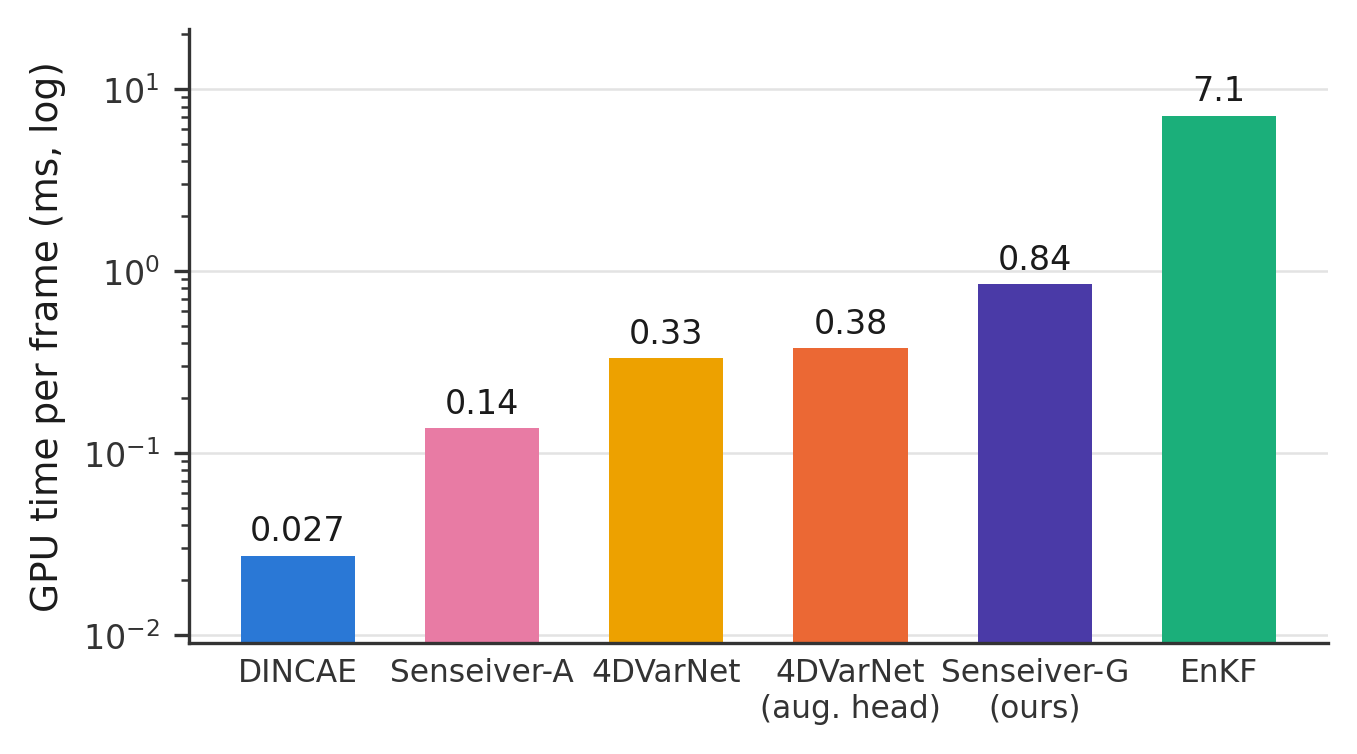
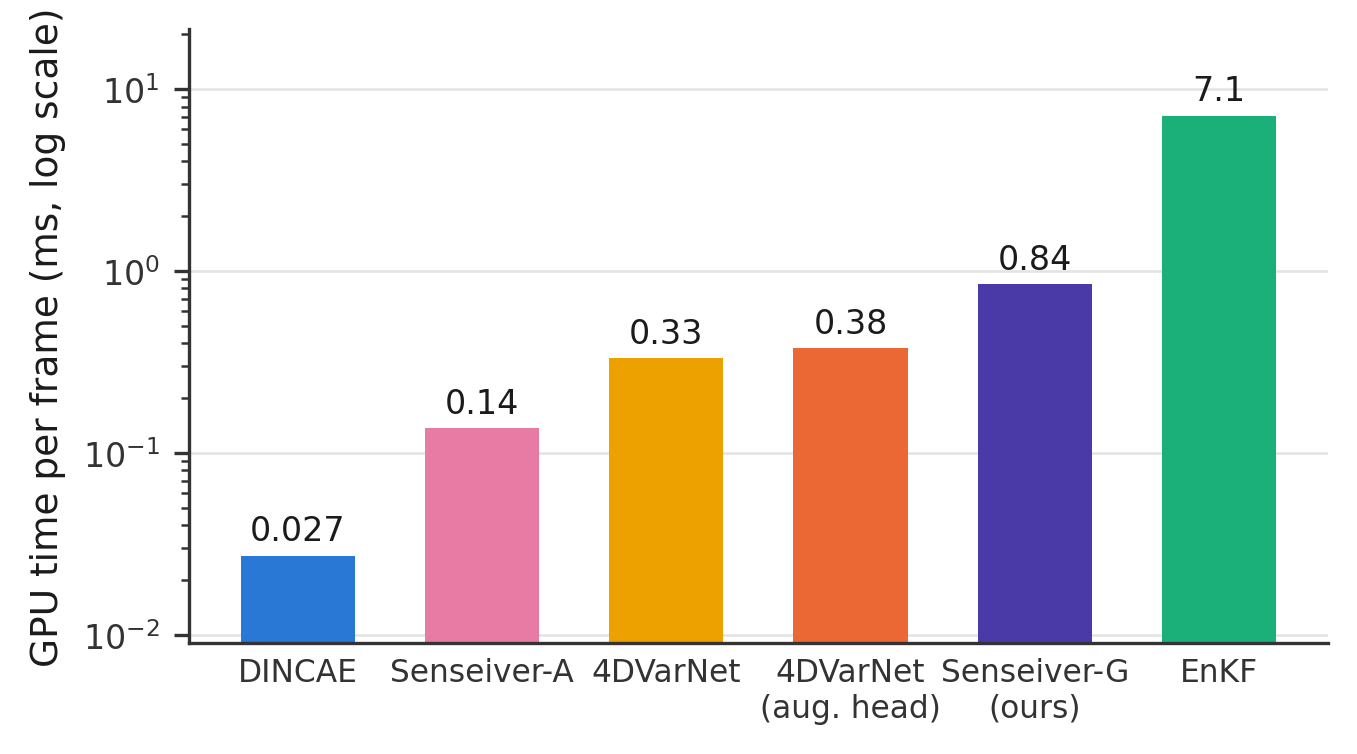
README: explain every metric, table and figure in plain terms for the reader
Each result section now says what question the metric answers, how to read the
number (units, direction, reference value), how to read the figure, and what it
shows. The 95% range is explained as a re-draw of the test days. Figure axes now
state the direction too (lower/higher is better, 1 = right size).

Changed region(s): [[0.0, 0.0305, 0.0619, 0.8846]]

diff --git a/supervisor_evaluation/evaluate.py b/supervisor_evaluation/evaluate.py
@@ -676,7 +676,7 @@ def plot_summary(output_dir: Path) -> None:
                    label=short.get(r["method"], r["method"]))
         ax.set_xticks(x, [t for _, t in cols])
         ax.tick_params(axis="x", length=0)
-        ax.set_ylabel("RMSE")
+        ax.set_ylabel("RMSE (lower is better)")
         fig.legend(loc="outside upper center", ncol=3, handlelength=1.2, columnspacing=1.5)
         save(fig, "accuracy_rmse")
         captions.append(
@@ -715,8 +715,8 @@ def plot_summary(output_dir: Path) -> None:
         fig, (ax_c, ax_d) = ps.figure(ncols=2, rows_h=2.6, constrained_layout=True)
         x = np.arange(len(groups)); w = 0.8 / len(names)
         for ax, key, ylabel, ref, letter in (
-                (ax_c, "crps_skill", "CRPS skill vs. null", 0.0, "a"),
-                (ax_d, "spread_skill", "Spread / RMSE", 1.0, "b")):
+                (ax_c, "crps_skill", "CRPS skill (higher is better)", 0.0, "a"),
+                (ax_d, "spread_skill", "Spread / RMSE (1 = right size)", 1.0, "b")):
             for i, m in enumerate(names):
                 v = np.array([float(pooled[m][key])] +
                              [float(per_ch[(m, c)][key]) for c in CHANNELS])
@@ -771,7 +771,7 @@ def plot_summary(output_dir: Path) -> None:
             ax.set_xticks(xs, [short.get(m, m).replace(" (", "\n(") for m in names],
                           fontsize=ps.FS_TICK - 0.5)
             ax.tick_params(axis="x", length=0)
-            ax.set_ylabel("GPU time per frame (ms, log)")
+            ax.set_ylabel("GPU time per frame (ms, log scale)")
             save(fig, "inference_latency")
             spread_pct = 100 * max((b - a) / a for a, b in zip(median, p95))
             gpu = timing[0].get("gpu", "")

diff --git a/README.md b/README.md
@@ -111,29 +111,28 @@ are the blind cells the headline scores are computed on. Observations carry
 per-channel Gaussian noise. Robot routes are seeded by the day's date, so every
 day has its own routes and every script sees the same observations for a day.
 
-## What is scored
+## Results, and how to read them
 
-All scores are on **unobserved walkable cells**: cells inside the corridor that
-no robot sees at that frame. Obstacle cells are never scored.
+All numbers are over the seven test days, on **unobserved walkable cells**:
+cells inside the corridor that no robot sees at that frame (about 44% of
+walkable cells). Reconstructing them is the actual task; obstacle cells are
+never scored. The four quantities being reconstructed are:
 
-- **Accuracy:** RMSE of the reconstruction, pooled over the four channels and
-  per channel; six methods.
-- **Uncertainty** (4DVarNet with augmented head, DINCAE, EnKF), all in
-  physical units on the same frames and cells:
-  - *CRPS skill* — improvement of the continuous ranked probability score over
-    a null model that predicts the same constant σ (the method's own RMSE) in
-    every cell. It is the main uncertainty metric: it rewards σ̂ for being
-    large where the error is large, which an average-scale check cannot see.
-    Below 0, the predicted uncertainty is worse than a constant.
-  - *Spread / RMSE* — mean predicted σ̂ over RMSE; 1 means the right average
-    size, below 1 too small.
-  - Pooled numbers carry 95% bootstrap intervals over the seven test days.
-- **Inference time:** median GPU time per reconstructed frame, same GPU and
-  frames for every method.
+| Channel | Meaning | Unit |
+|---|---|---|
+| Density | how many people are in the cell | ≈ people per m² |
+| $v_x$, $v_y$ | mean walking velocity in the cell, along and across the corridor | m/s |
+| Vel. var. | how much the velocities in the cell disagree (people walking in different directions) | (m/s)² |
 
-## Results (seven test days)
+### 1. Reconstruction accuracy — how close is the reconstructed field to the truth?
 
-| Method | RMSE (all) | Density | $v_x$ | $v_y$ | Vel. var. |
+**RMSE** (root-mean-square error): the typical size of the difference between
+the reconstructed value and the true value, in the channel's own unit. **Lower
+is better.** For example, a density RMSE of 0.13 means the reconstruction is off
+by about 0.13 people per m² in a typical cell. "All" pools the four channels
+into one number.
+
+| Method | All | Density | $v_x$ | $v_y$ | Vel. var. |
 |---|---|---|---|---|---|
 | Senseiver-A | 0.222 | 0.156 | 0.372 | 0.154 | 0.107 |
 | **Senseiver-G (ours)** | **0.197** | **0.133** | **0.326** | **0.145** | **0.103** |
@@ -142,17 +141,89 @@ no robot sees at that frame. Obstacle cells are never scored.
 | 4DVarNet (aug. head) | 0.295 | 0.195 | 0.504 | 0.189 | 0.142 |
 | EnKF | 0.283 | 0.154 | 0.419 | 0.183 | 0.295 |
 
-| Method | CRPS skill (95% CI) | Spread / RMSE |
-|---|---|---|
-| 4DVarNet (aug. head) | 0.232 (0.221–0.244) | 0.66 |
-| **DINCAE** | **0.275 (0.266–0.283)** | 0.58 |
-| EnKF | 0.075 (0.068–0.081) | 1.21 |
-
 ![Reconstruction accuracy](supervisor_evaluation/outputs/full/figures/accuracy_rmse.png)
+
+*How to read the figure:* each group of bars is one channel (the left group is
+all channels together); each colour is one method, the same colour in every
+figure. A shorter bar is a smaller error.
+
+*What it shows:* Senseiver-G has the smallest error overall and on every
+channel. Giving 4DVarNet an uncertainty output (aug. head) costs accuracy,
+mostly on $v_x$. The EnKF is competitive on density but has by far the largest
+error on velocity variance.
+
+### 2. Uncertainty — does the method know where it is likely to be wrong?
+
+Three methods output, for every cell, not only a value but also an uncertainty
+σ̂ ("I think the density here is 0.5, give or take 0.1"). Two numbers judge
+that σ̂:
+
+**CRPS skill — is σ̂ large where the error is large? Higher is better.** The
+CRPS (continuous ranked probability score) scores a prediction *together with*
+its σ̂ in each cell: it is lowest when the value is right and σ̂ matches how
+wrong the value actually is in that cell. The skill compares this against a
+simple reference that uses the same constant σ everywhere (the method's own
+average error): it knows *how large* errors are on average, but not *where*
+they are.
+
+- CRPS skill = 0.275 means 27.5% better than that constant reference.
+- 0 means σ̂ tells you nothing beyond the average error.
+- Below 0 means σ̂ is worse than simply using a constant.
+
+**Spread / RMSE — is σ̂ the right size on average? 1 is ideal.** The average
+predicted σ̂ divided by the actual error. Below 1: the method is overconfident
+(its σ̂ is too small). Above 1: it is too cautious (σ̂ too large). This number
+only checks the average size, not the location — a constant σ scores a perfect
+1 — which is why CRPS skill is the main measure.
+
+**The range in brackets (95% interval)** shows how much a number depends on
+which days happened to be the test days: the result is recomputed 10,000 times,
+each time on a random re-draw of the seven test days, and the range contains 95%
+of those results. When two methods' ranges do not overlap, the difference between
+them cannot be explained by which days were used for testing.
+
+| Method | CRPS skill (higher is better) | range over test days | Spread / RMSE (1 is ideal) |
+|---|---|---|---|
+| **DINCAE** | **0.275** | 0.266–0.283 | 0.58 |
+| 4DVarNet (aug. head) | 0.232 | 0.221–0.244 | 0.66 |
+| EnKF | 0.075 | 0.068–0.081 | 1.21 |
+
 ![Uncertainty](supervisor_evaluation/outputs/full/figures/uncertainty_summary.png)
+
+*How to read the figure:* (a) CRPS skill, (b) spread/RMSE; left group all
+channels together, then one group per channel. The small black bars on the
+"All" group are the 95% ranges above. In (a), a bar below the zero line means
+that channel's σ̂ is worse than a constant; in (b), the dashed line at 1 is the
+ideal size.
+
+*What it shows:* DINCAE's σ̂ is the most informative, on every channel, and its
+range does not overlap 4DVarNet's, so the ranking is not down to the choice of
+test days. The two neural networks are overconfident (spread/RMSE 0.58 and
+0.66). The EnKF's σ̂ is somewhat too large on average (1.21) and badly placed on
+the velocity channels: there it is 1.6–1.8× too large and worse than a constant
+(bars below zero). Per-channel numbers: `uncertainty_by_channel.csv`.
+
+### 3. Inference time — how fast is each method?
+
+The median GPU time to reconstruct one frame, measured for every method on the
+same GPU (one Tesla V100) and the same frames.
+
 ![Inference time](supervisor_evaluation/outputs/full/figures/inference_latency.png)
 
-The CSVs behind these (`accuracy.csv`, `uncertainty.csv`,
-`uncertainty_by_channel.csv`, `inference_time_controlled.csv`), a LaTeX table
-(`accuracy_table.tex`) and generated figure captions (`figures/captions.md`)
-are in `supervisor_evaluation/outputs/full/`.
+*How to read the figure:* the vertical axis is logarithmic — each grid line is
+10× the one below — because the methods differ by a factor of about 260. Read
+the value printed on each bar rather than comparing bar heights.
+
+*What it shows:* DINCAE is the fastest (0.027 ms per frame) and the EnKF, which
+runs 100 forecast members, the slowest (7.1 ms). Every method is far faster than
+the data itself, which arrives at one frame per second.
+
+### Files
+
+The numbers above are in `supervisor_evaluation/outputs/full/`:
+`accuracy.csv`, `uncertainty.csv`, `uncertainty_by_channel.csv` and
+`inference_time_controlled.csv`, plus a LaTeX table (`accuracy_table.tex`) and
+figure captions (`figures/captions.md`). The exact definitions and code are in
+`supervisor_evaluation/evaluate.py` and `compare/score_uncertainty.py`
+(CRPS in physical units; DINCAE's velocity-variance channel uses the log-normal
+form of the CRPS because the network predicts it on a log scale).
